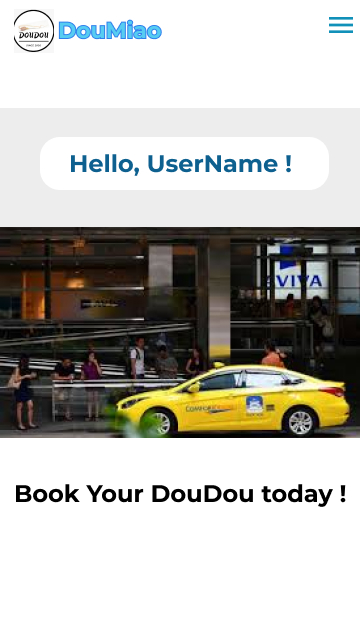
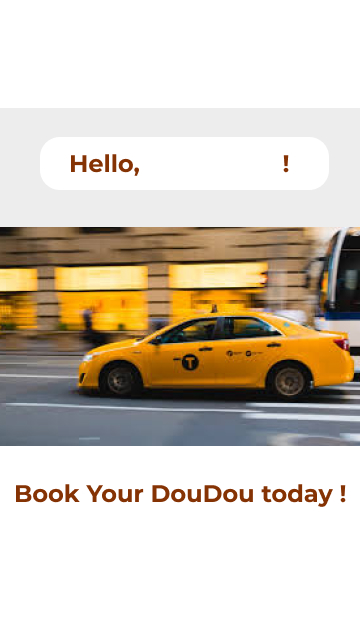
all commit

diff --git a/lib/DropDownPage.dart b/lib/DropDownPage.dart
@@ -7,83 +7,112 @@ class DropDownPage extends StatefulWidget {
   _DropDownPageState createState() => _DropDownPageState();
 }
 class _DropDownPageState extends State<DropDownPage> {
-  String dropdownValue = 'English';
-
+  String dropdownValue_1 = 'English                    ';
+  String dropdownValue_2 = 'Male                       ';
+  String dropdownValue_3 = 'Not Talkative    ';
   @override
   Widget build(BuildContext context) {
     return Scaffold(
       appBar: AppBar(
-        title: Text(
-          "Preference",
-        ),
-        centerTitle: true,
+        title: const Text('Profile'),
+        backgroundColor: Colors.brown[600],
       ),
-      body: Center(
-        child: Column(
-          mainAxisAlignment: MainAxisAlignment.spaceEvenly,
-          children: <Widget>[
-            DropdownButton<String>(
-              value: dropdownValue,
-              icon: Icon(Icons.arrow_downward),
-              iconSize: 24,
-              elevation: 16,
-              style: TextStyle(color: Colors.deepPurple),
-              underline: Container(
-                height: 2,
-                color: Colors.deepPurpleAccent,
-              ),
-              onChanged: (String newValue) {
-                setState(() {
-                  dropdownValue = newValue;
-                });
-              },
-              items: <String>[
-                'English',
-                'Chinese',
-                'Malaysian',
-                'Japanese',
-                'Cantonese'
-              ]
-                  .map<DropdownMenuItem<String>>((String value) {
-                return DropdownMenuItem<String>(
-                  value: value,
-                  child: Text(value),
-                );
-              }).toList(),
-            ),
-            /*RaisedButton(
-              child: Text("Open Multiselect"),
-              onPressed: () => _showMultiSelect(context),
-            ),*/
-          ],
+      body: new Container(
+        decoration: BoxDecoration(
+          image: DecorationImage(
+            image: AssetImage("android/assets/UserPreference.jpg"),
+            fit: BoxFit.cover,
+          ),
         ),
+          alignment: Alignment.center,
+          child: Column(
+              mainAxisAlignment: MainAxisAlignment.spaceEvenly,
+              children: <Widget>[
+                DropdownButton<String>(
+                  value: dropdownValue_1,
+                  icon: Icon(Icons.arrow_downward),
+                  iconSize: 30,
+                  elevation: 30,
+                  style: TextStyle(color: Colors.grey[900]),
+                  underline: Container(
+                    height: 2,
+                    color: Colors.grey[700],
+                  ),
+                  onChanged: (String newValue) {
+                    setState(() {
+                      dropdownValue_1 = newValue;
+                    });
+                  },
+                  items: <String>[
+                    'English                    ',
+                    'Chinese          ',
+                    'Malaysian        ',
+                    'Japanese         ',
+                    'Cantonese        '
+                  ]
+                      .map<DropdownMenuItem<String>>((String value) {
+                    return DropdownMenuItem<String>(
+                      value: value,
+                      child: Text(value),
+                    );
+                  }).toList(),
+                ),
+                DropdownButton<String>(
+                  value: dropdownValue_2,
+                  icon: Icon(Icons.arrow_downward),
+                  iconSize: 30,
+                  elevation: 30,
+                  style: TextStyle(color: Color(0xFF01579B)),
+                  underline: Container(
+                    height: 2,
+                    color: Colors.blueAccent,
+                  ),
+                  onChanged: (String newValue) {
+                    setState(() {
+                      dropdownValue_2 = newValue;
+                    });
+                  },
+                  items: <String>[
+                'Male                       ',
+                    'Female           '
+                  ]
+                      .map<DropdownMenuItem<String>>((String value) {
+                    return DropdownMenuItem<String>(
+                      value: value,
+                      child: Text(value),
+                    );
+                  }).toList(),
+                ),
+                DropdownButton<String>(
+                  value: dropdownValue_3,
+                  icon: Icon(Icons.arrow_downward),
+                  iconSize: 30,
+                  elevation: 30,
+                  style: TextStyle(color: Color(0xFF01579B)),
+                  underline: Container(
+                    height: 2,
+                    color: Colors.blueAccent,
+                  ),
+                  onChanged: (String newValue) {
+                    setState(() {
+                      dropdownValue_3 = newValue;
+                    });
+                  },
+                  items: <String>[
+                    'Not Talkative    ',
+                    'Medium Talkative ',
+                    'Very Talkative   '
+                  ]
+                      .map<DropdownMenuItem<String>>((String value) {
+                    return DropdownMenuItem<String>(
+                      value: value,
+                      child: Text(value),
+                    );
+                  }).toList(),
+                )
+              ])
       ),
     );
-  }
-}
-
-
-class Gender {
-  int id;
-  String name;
-  Gender(this.id, this.name);
-  static List<Gender> getGenders(){
-    return <Gender>[
-      Gender(1, "Male"),
-      Gender(2, "Female")
-    ];
-  }
-}
-class Talkative{
-  int id;
-  String name;
-  Talkative(this.id, this.name);
-  static List<Talkative> getTalks(){
-    return <Talkative>[
-      Talkative(1,"Not Talkative"),
-      Talkative(2, "Medium Talkative"),
-      Talkative(2, "Very Talkative"),
-    ];
   }
 }
 

diff --git a/lib/ProfilePage.dart b/lib/ProfilePage.dart
@@ -41,6 +41,7 @@ class _ProfilePageState extends State<ProfilePage> {
     return new Scaffold(
         appBar: AppBar(
         title: const Text('Profile'),
+          backgroundColor: Colors.brown[600],
       ),
       body: new ListView(
         children: <Widget>[
@@ -91,7 +92,7 @@ class _ProfilePageState extends State<ProfilePage> {
                     IconButton(
                       icon: Icon(
                         Icons.camera_alt,
-                        color: Color(0xff476cfb),
+                        color: Colors.orange[900],
                         size: 30.0,
                       ),
                       onPressed: () {
@@ -118,7 +119,7 @@ class _ProfilePageState extends State<ProfilePage> {
                       child: Container(
                         child: IconButton(
                             icon: Icon(Icons.border_color),
-                            color: Color(0xff476cfb),
+                            color: Colors.deepOrange[900],
                             onPressed: (){
                               alert.username(cx);
                             }
@@ -137,14 +138,14 @@ class _ProfilePageState extends State<ProfilePage> {
                     Column(
                       children: <Widget>[
                         IconButton(
-                            icon: Icon(Icons.tag_faces,color: Color(0xff476cfb),),
+                            icon: Icon(Icons.tag_faces,color: Colors.pink[600],),
                             onPressed: () {
                               //print("Pressed on a RaisedButton");
                               Navigator.of(cx).pushNamed('/DropDown'); //route
                             }
                         ),
                         Text('Preference',style: TextStyle(
-                            color: Colors.blueAccent
+                          color: Colors.pink[600],
                         ),)
                       ],
                     ),
@@ -202,7 +203,7 @@ class _ProfilePageState extends State<ProfilePage> {
                           child: Container(
                           child: IconButton(
                           icon: Icon(Icons.border_color),
-                          color: Color(0xff476cfb),
+                              color: Colors.deepOrange[900],
                           onPressed: (){
                           alert.Contact(cx);
                           }),),),
@@ -226,7 +227,7 @@ class _ProfilePageState extends State<ProfilePage> {
                         child: Container(
                           child: IconButton(
                               icon: Icon(Icons.border_color),
-                              color: Color(0xff476cfb),
+                              color: Colors.deepOrange[900],
                               onPressed: (){
                                 alert.Email(cx);
                               }),),),
@@ -250,7 +251,7 @@ class _ProfilePageState extends State<ProfilePage> {
                         child: Container(
                         child: IconButton(
                         icon: Icon(Icons.border_color),
-                        color: Color(0xff476cfb),
+                            color: Colors.deepOrange[900],
                         onPressed: (){
                         alert.Location(cx);
                         }),),),
@@ -275,7 +276,7 @@ class _ProfilePageState extends State<ProfilePage> {
                         child: Container(
                         child: IconButton(
                         icon: Icon(Icons.border_color),
-                        color: Color(0xff476cfb),
+                            color: Colors.deepOrange[900],
                         onPressed: (){
                         alert.Nation(cx);
                         }),),),
@@ -303,7 +304,7 @@ class _ProfilePageState extends State<ProfilePage> {
                           child: new MaterialButton(
                             height: 30.0,
                             minWidth: 50.0,
-                            color: Colors.blue,
+                            color: Colors.pink[900],
                             textColor: Colors.white,
                             shape: RoundedRectangleBorder(
                                 borderRadius: BorderRadius.circular(10.0)),
@@ -320,7 +321,7 @@ class _ProfilePageState extends State<ProfilePage> {
                       height: 10.0,
                       child:
                       Divider(
-                        color: Colors.lightBlue,
+                        color: Colors.pink[900],
                       ),
                     ),
                   ],

diff --git a/lib/LoginPage.dart b/lib/LoginPage.dart
@@ -11,6 +11,7 @@ class _LoginPageState extends State<LoginPage>{
     return new Scaffold(
         appBar: AppBar(
           title: Text('DouDou'),
+          backgroundColor: Colors.brown[600],
         ),
         resizeToAvoidBottomPadding: false,
         body: Column(
@@ -23,13 +24,15 @@ class _LoginPageState extends State<LoginPage>{
                     padding: EdgeInsets.fromLTRB(15.0, 30.0, 0.0, 0.0),
                     child: Text('Hello',
                         style: TextStyle(
-                            fontSize: 80.0, fontWeight: FontWeight.bold)),
+                            fontSize: 80.0, fontWeight: FontWeight.bold,
+                            color: Colors.amber[900]),),
                   ),
                   Container(
                     padding: EdgeInsets.fromLTRB(16.0, 100.0, 0.0, 0.0),
                     child: Text('DouDou',
                         style: TextStyle(
-                            fontSize: 80.0, fontWeight: FontWeight.bold)),
+                            fontSize: 80.0, fontWeight: FontWeight.bold,
+                            color: Colors.amber[900])),
                   ),
                   Container(
                     padding: EdgeInsets.fromLTRB(300.0, 100.0, 0.0, 0.0),
@@ -37,7 +40,7 @@ class _LoginPageState extends State<LoginPage>{
                         style: TextStyle(
                             fontSize: 80.0,
                             fontWeight: FontWeight.bold,
-                            color: Colors.lightBlue)),
+                            color: Colors.limeAccent[700])),
                   )
                 ],
               ),
@@ -76,7 +79,7 @@ class _LoginPageState extends State<LoginPage>{
                         child: Text(
                           'Forgot Password',
                           style: TextStyle(
-                              color: Colors.lightBlue,
+                              color: Colors.orangeAccent[400],
                               fontWeight: FontWeight.bold,
                               fontFamily: 'Montserrat',
                               decoration: TextDecoration.underline),
@@ -89,8 +92,8 @@ class _LoginPageState extends State<LoginPage>{
                       child: Material(
 
                         borderRadius: BorderRadius.circular(20.0),
-                        shadowColor: Colors.blueAccent,
-                        color: Colors.blue,
+                        shadowColor: Colors.lime[900],
+                        color: Colors.lime[800],
                         elevation: 7.0,
                         child: GestureDetector(
                           onTap: () {
@@ -155,7 +158,7 @@ class _LoginPageState extends State<LoginPage>{
                   child: Text(
                     'Register',
                     style: TextStyle(
-                        color: Colors.lightBlue,
+                        color: Colors.orangeAccent[400],
                         fontFamily: 'Montserrat',
                         fontWeight: FontWeight.bold,
                         decoration: TextDecoration.underline),

diff --git a/lib/WelcomePage.dart b/lib/WelcomePage.dart
@@ -7,7 +7,9 @@ class WelcomePage extends StatelessWidget {
   Widget build(BuildContext context) {
     return new Scaffold(
       appBar: AppBar(
+        backgroundColor: Colors.brown[600],
         title: const Text('DouDou'),
+
       ),
       //body: Center(child: Text('My Page!')),
       drawer: Drawer(
@@ -15,13 +17,17 @@ class WelcomePage extends StatelessWidget {
           padding: EdgeInsets.zero,
           children: <Widget>[
             UserAccountsDrawerHeader(
+              decoration: BoxDecoration(
+                color: Colors.brown[600],
+              ),
               accountName: Text("Cony Yang"),
               accountEmail: Text("yangyubei0218@gmail.com"),
               currentAccountPicture: CircleAvatar(
-                backgroundColor: Colors.blue,
+                backgroundColor: Colors.amberAccent[700],
                 child: Text(
                   "A",
-                  style: TextStyle(fontSize: 40.0),
+                  style: TextStyle(fontSize: 40.0,
+                    color: Colors.white),
                 ),
               ),
             ),

diff --git a/lib/main.dart b/lib/main.dart
@@ -20,7 +20,10 @@ class MyApp extends StatelessWidget {
       initialRoute: '/',
       onGenerateRoute: RouteGenerator.generateRoute,
         home: Scaffold(
-          appBar: AppBar(title: Text("DouDou")),
+          appBar: AppBar(title: Text("DouDou"),
+            backgroundColor: Colors.brown[600],
+          ),
+
           body: StartPage(),
         )
     );
